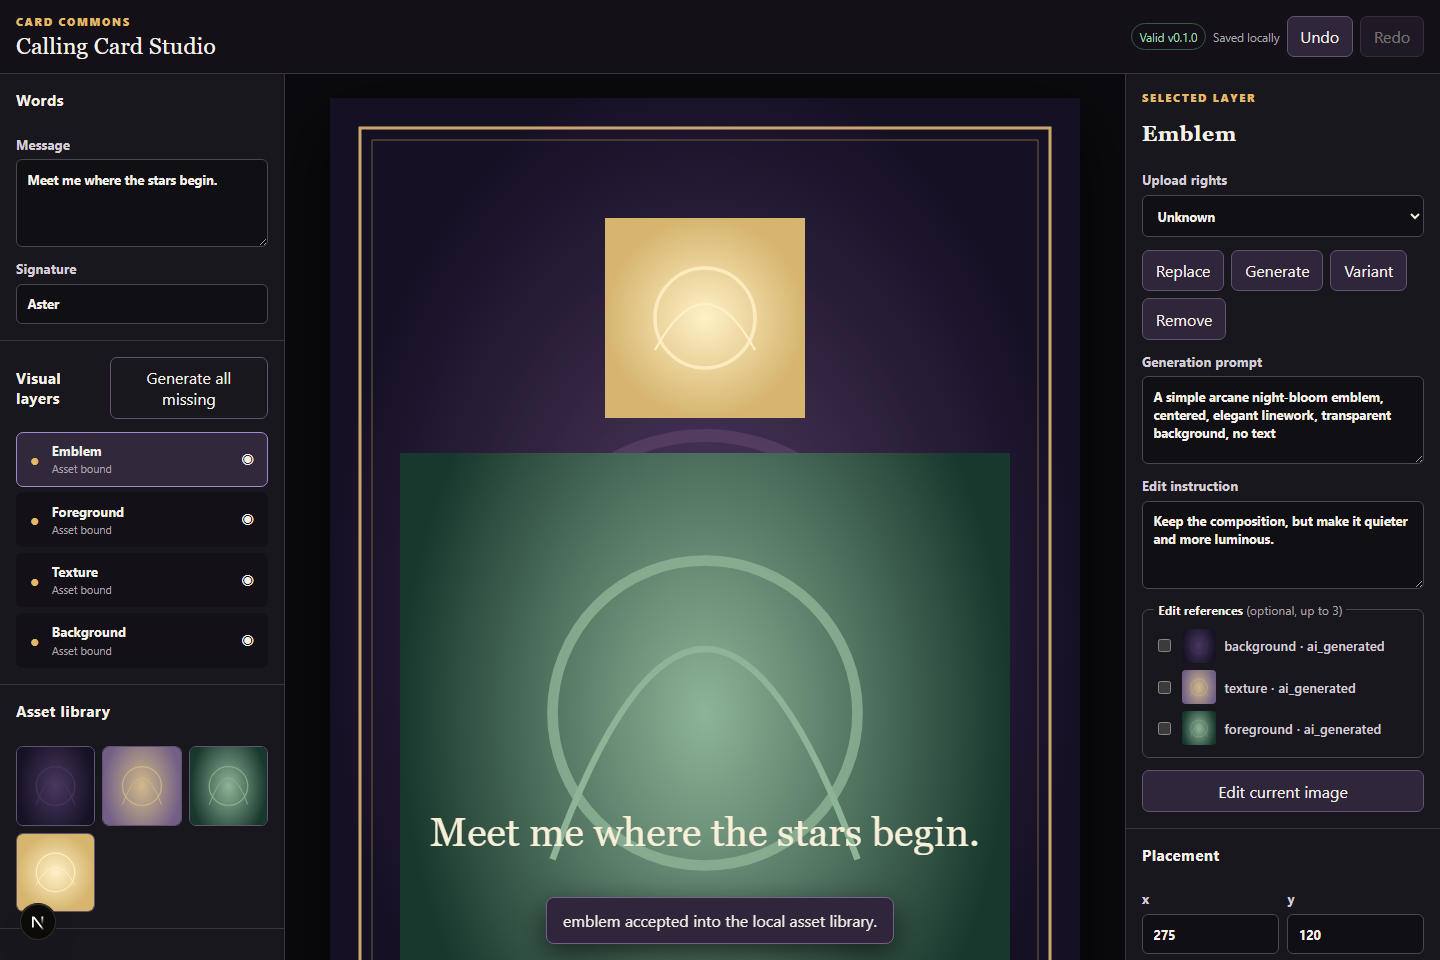
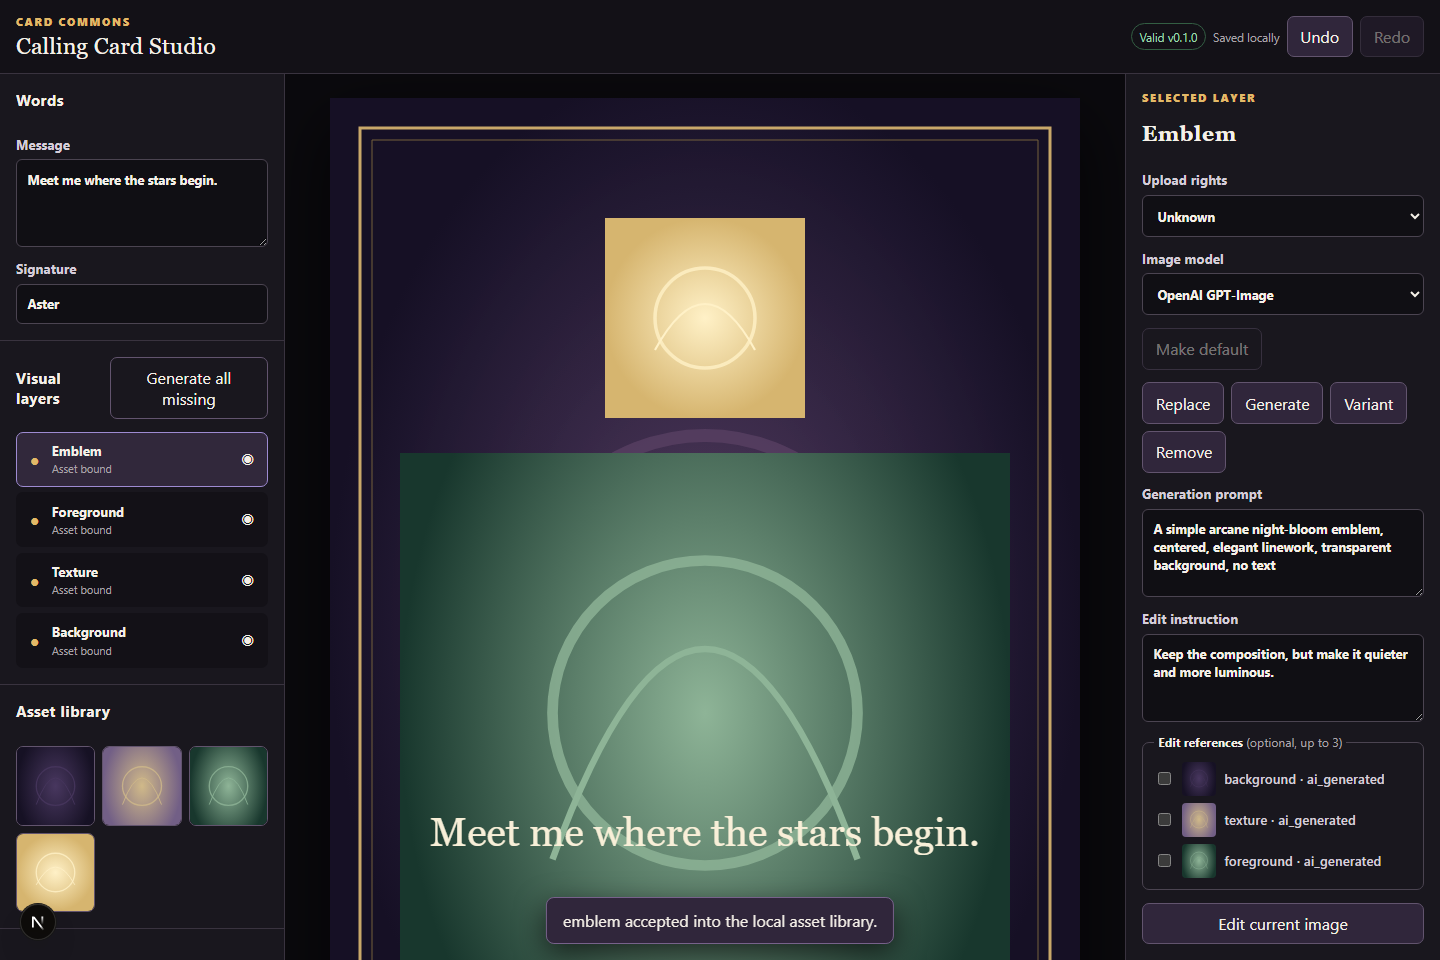
Update docs for multi-model OpenRouter generation
Refresh the README Studio section, screenshot (now showing the image-model
selector), and status table to reflect OpenRouter's unified image API, the
six selectable models, the global-default/per-generation-override UX, and
emblem transparency gating. Canonical specs stay provider-agnostic.

Changed region(s): [[0.7812, 0.625, 1.0, 1.0], [0.7812, 0.25, 1.0, 0.5938]]

diff --git a/README.md b/README.md
@@ -89,11 +89,17 @@ Every visual layer — background, texture, emblem, foreground — can be
 **uploaded** or **AI-generated**, edited, or varied. Generated and uploaded
 images enter the same reusable asset library and carry provenance.
 
-![Card Studio — a finished calling card with four bound layers, asset library, and provenance inspector](docs/assets/studio-editor.png)
+![Card Studio — a finished calling card with four bound layers, the asset library, an image-model selector, and the provenance inspector](docs/assets/studio-editor.png)
 
-Image generation runs through a protected, OpenAI-backed endpoint. Each
-candidate is reviewed and explicitly accepted or rejected before it becomes a
-provenance-bearing asset; rejected candidates leave no trace.
+Image generation runs through a protected endpoint backed by
+**OpenRouter's unified image API**, with the direct OpenAI API kept as one
+option. Six models are selectable (OpenAI GPT-Image, Gemini Flash Image,
+Seedream 4.5, FLUX.2 Pro, Grok Imagine, and direct GPT-Image) via a global
+default that persists locally plus a per-generation override. The emblem layer
+needs transparency, so it is gated to transparency-capable models with a
+one-click switch. Each candidate is reviewed and explicitly accepted or
+rejected before it becomes a provenance-bearing asset (recording exact provider
+and model); rejected candidates leave no trace.
 
 ![Card Studio — candidate review dialog before an AI layer is accepted](docs/assets/studio-generate.png)
 
@@ -147,9 +153,9 @@ user research, and protocol discussion.
 | --- | --- |
 | Specs, schemas, OpenAPI, whitepaper | Published and committed |
 | Pitch-deck site | Built; deploys to GitHub Pages |
-| Card Studio | Built and committed; typecheck clean, 15/15 unit tests pass |
-| Studio image generation | Verified against **mocked** images only |
-| Live OpenAI run + Vercel deploy | **Pending** (needs API key and deploy creds) |
+| Card Studio | Built and committed; typecheck clean, 22/22 unit tests pass |
+| Image generation (OpenRouter, 6 models) | Wired + tested against **mocked** images only |
+| Live OpenRouter/OpenAI run + Vercel deploy | **Pending** (needs API key and deploy creds) |
 
 The screenshots above are from the running apps; the Studio images were produced
 with the mock-image test harness, not a live model.